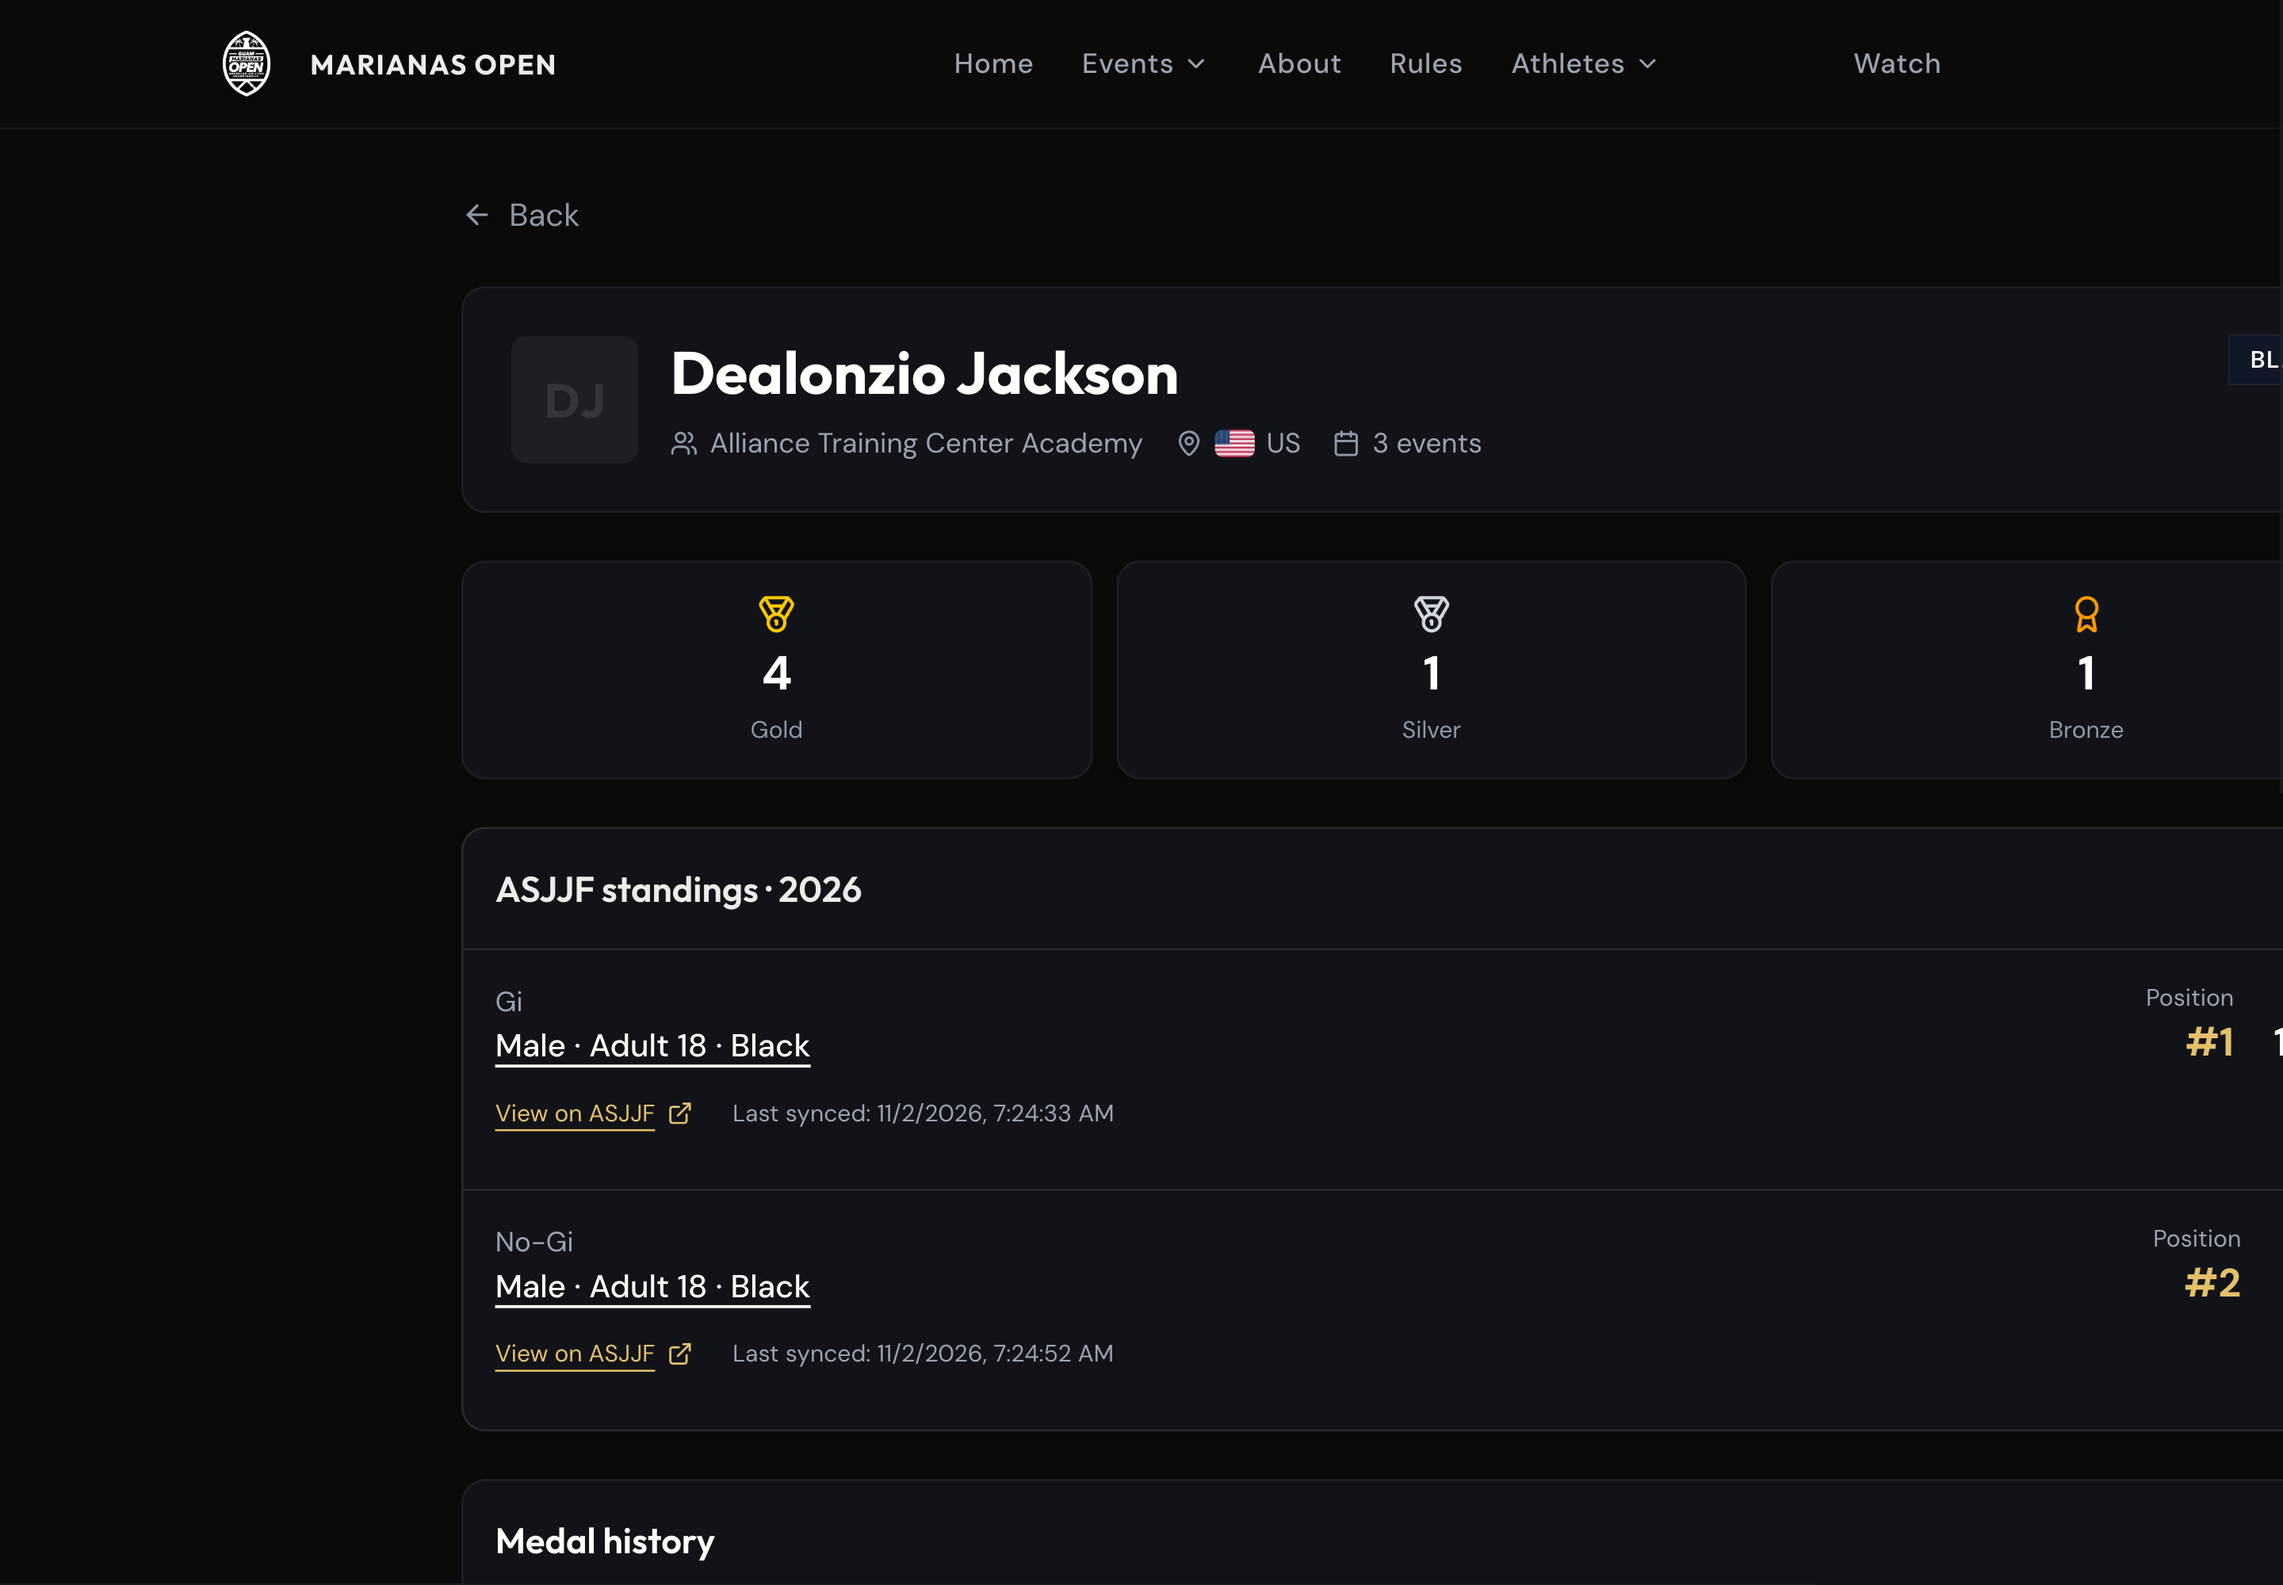
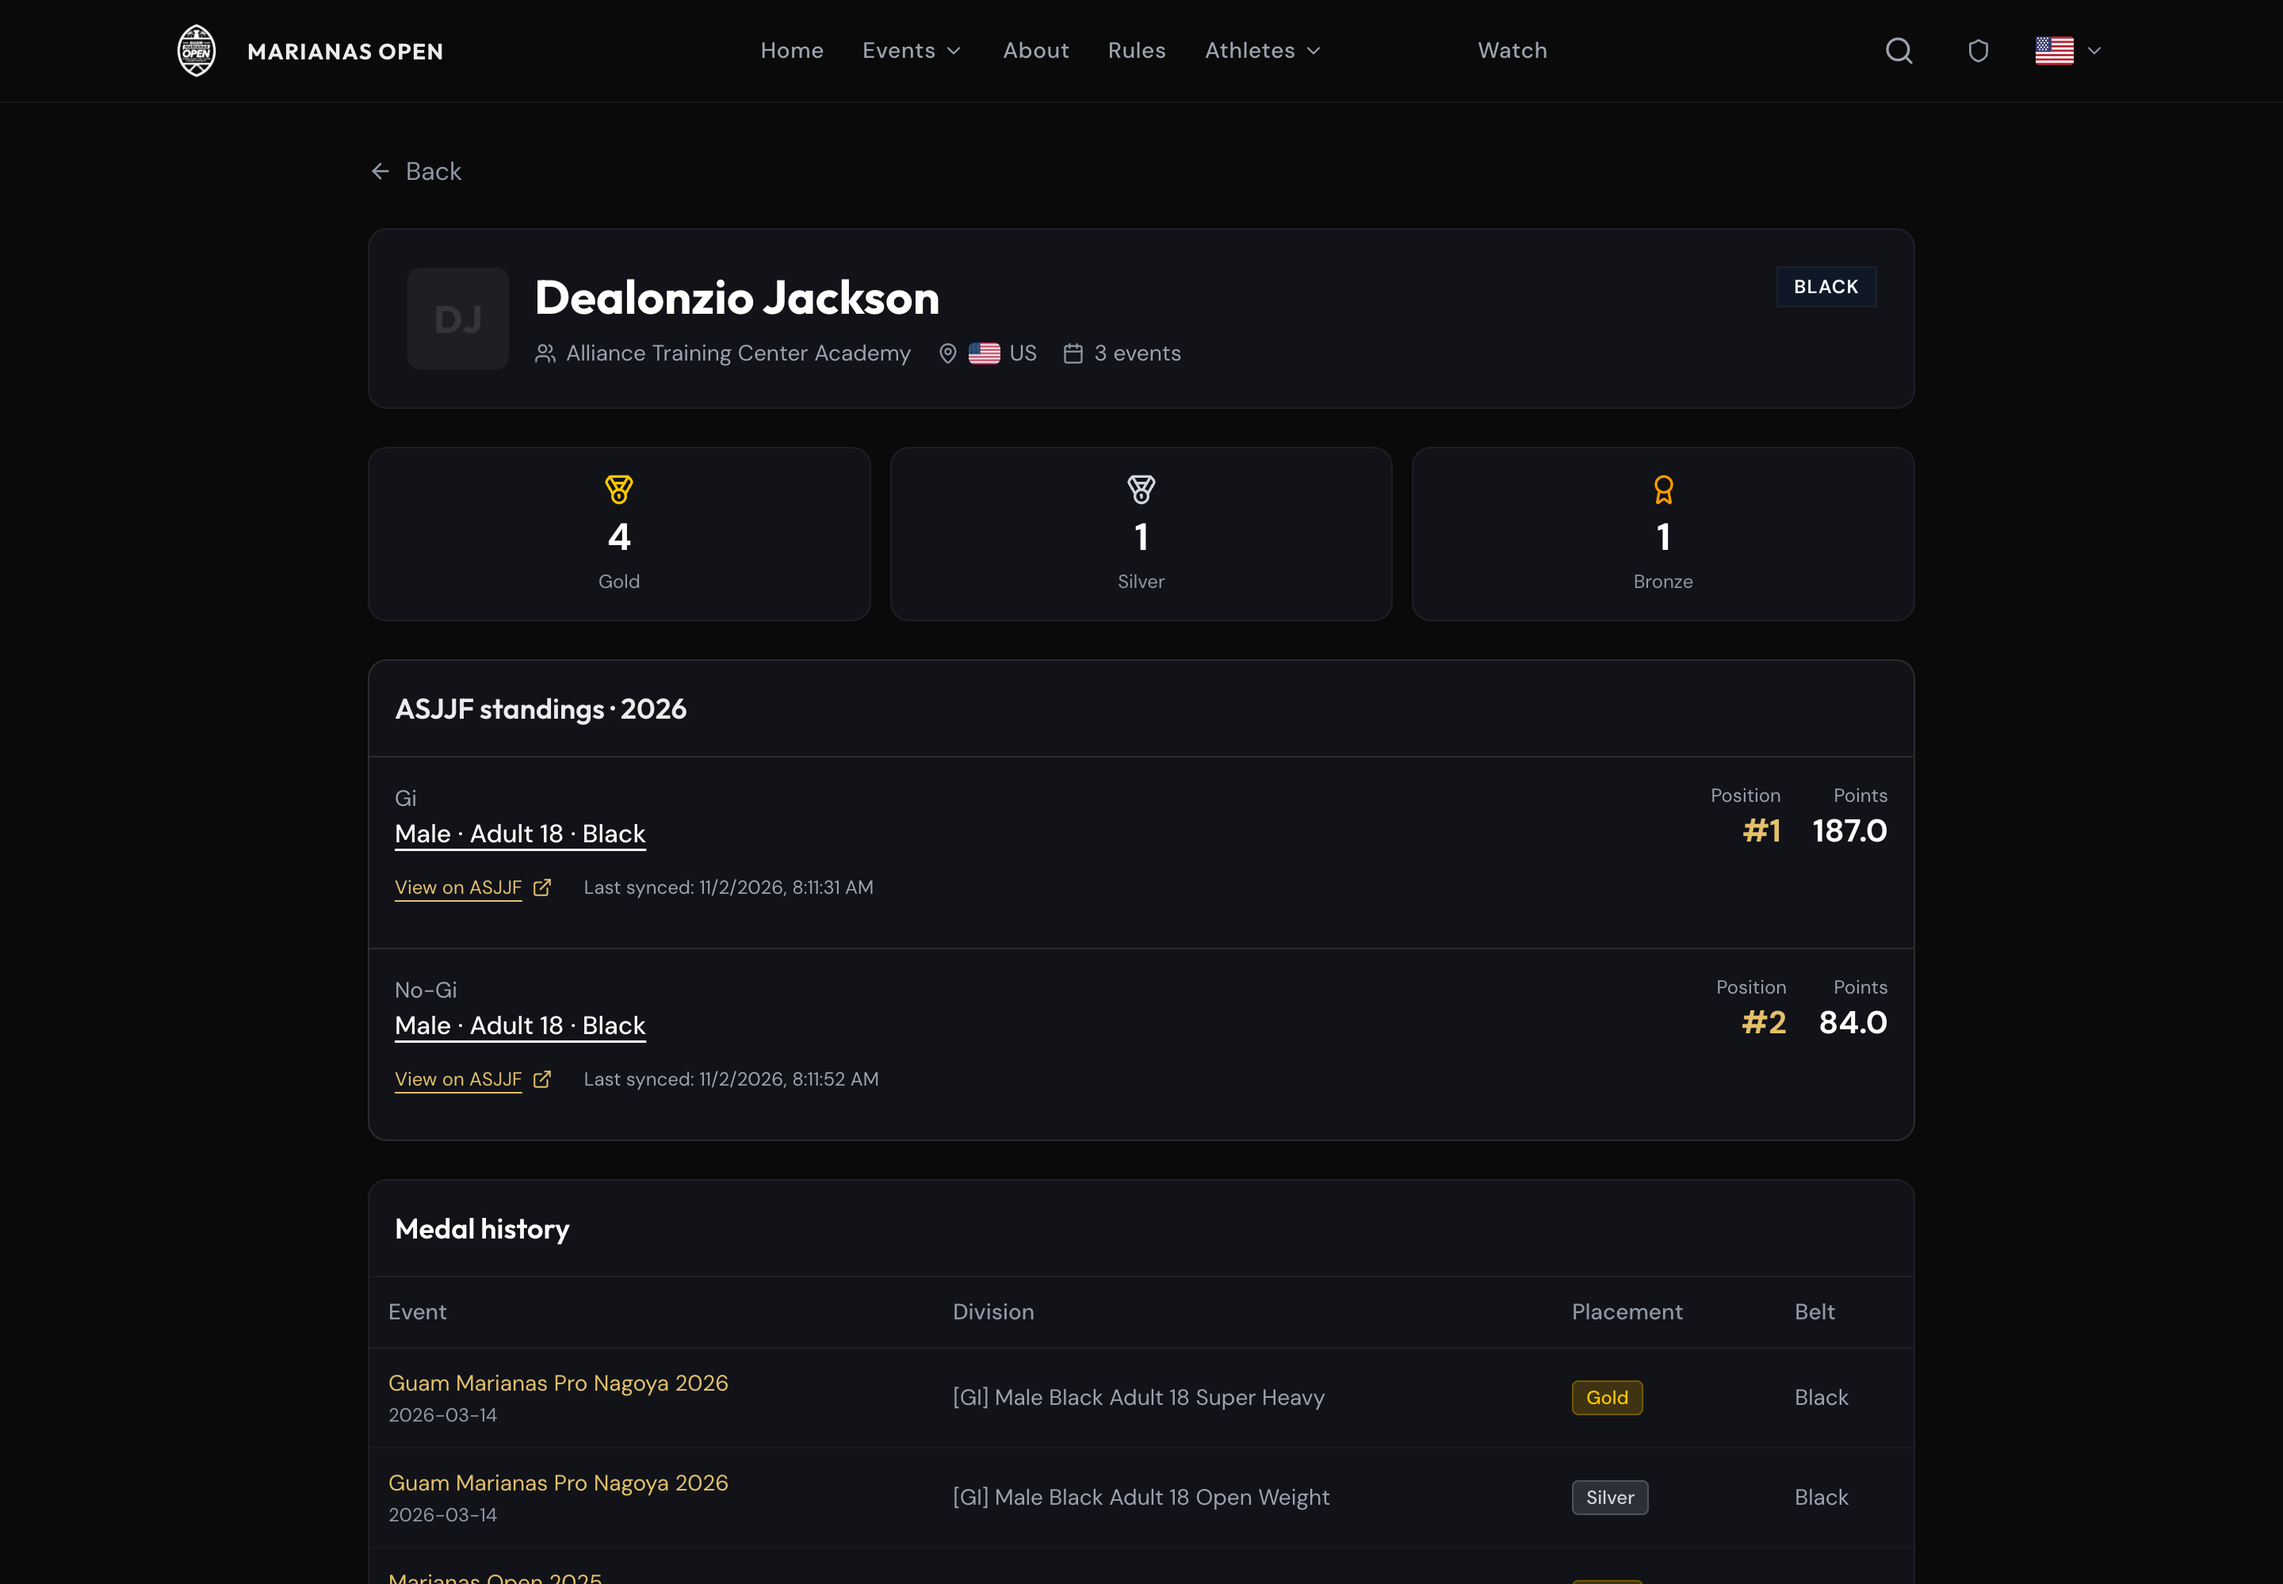
Record integrated rankings acceptance and refreshed profile evidence

diff --git a/docs/qa/official-rankings-b5.md b/docs/qa/official-rankings-b5.md
@@ -23,7 +23,7 @@ Automated checks: Rails 299 runs / 5,063 assertions / zero failures or errors / 
 
 Runtime passed: default and White division facts; URL-preserved selection, page 2 of 158 entries, linked profile with official Gi/No-Gi standings and medal history, and return-to-division link. Teams show Biba #1 / 5,351 with a matched academy destination; kids stay hidden without published data. Unavailable No-Gi teams show an explanatory message, and returning to Gi restores populated standings. EN/JA individual and team cards/tables and the profile were rendered at CSS widths 390 and 1440 without horizontal overflow. Screenshots below use Chrome device emulation at DPR 2. T3 preview snapshot failed twice (15-second timeout), followed by intermittent Chrome extension dispatch failures; native Chrome controls supplied final captures.
 
-Coverage limits: this is browser-width QA, not physical-phone testing. Full gender/age keyboard interaction, loading/error retry and authenticated admin save/review journeys were covered by API/component tests, not a complete live operator walkthrough; local Clerk authentication was not configured. No production rollout or historical login-gated source was exercised.
+Coverage limits: this is browser-width QA, not physical-phone testing. Loading/error retry and authenticated admin save/review journeys were covered by API/component tests, not a complete live operator walkthrough; local Clerk authentication was not configured. No production rollout or historical login-gated source was exercised.
 
 | View | 390px | 1440px |
 | --- | --- | --- |
@@ -34,3 +34,11 @@ Coverage limits: this is browser-width QA, not physical-phone testing. Full gend
 | Profile EN | [Screenshot](rankings-b5/profile-en-390.png) | [Screenshot](rankings-b5/profile-en-1440.png) |
 
 Review: independent backend, combined and guard-focused static rounds found incomplete row reductions, identity-merge association loss, schema pollution, misleading apply status, removed division inventory and inaccessible older holds. These were fixed. The last guard review identified last-page pagination shrinking; Previous now remains available and a regression proves the 26-to-25 hold case. CodeRabbit reported an OSS review rate limit and has not supplied a completed review. CI and final cleanup are reported with the PR handoff.
+
+Integration recheck: concurrent PRs #119 and #120 advanced `main` to `24f823e`. Merge `95523ee` preserves their public pages and results implementation unchanged. Both parse dispatch paths, results evidence locks, recurring jobs, schemas and all seven locale namespaces were reconciled. A bounded independent review found no material issue in that merge. Commits `c688eab` and `e6f0552` add failed-parse dispatch coverage and a staged wait for the profile's two asynchronous requests; no runtime code changed after the reviewed merge.
+
+Combined web gate: 192 tests / 35 files, lint, typecheck and build passed. The first run exceeded a one-second nested-profile wait under local load; the test now waits for the profile and standings separately. Standalone parser contract: 12 tests / 2,383 assertions, no failures/errors/skips. RuboCop inspected 303 files without offenses; Brakeman and bundler-audit remained clean. The production dependency audit reports one low and one moderate advisory, with no high/critical findings.
+
+Combined Rails run: 336 tests / 5,290 assertions, zero failures, one error and one expected skip. The error was a five-second timeout obtaining the second database connection in main's B3 evidence-lock test. Its isolated rerun passed both tests / seven assertions with no failures/errors/skips. No B3 implementation or test was changed. This is a local full-suite caveat; the complete run was not clean. Final CI status is reported in the PR handoff.
+
+Combined runtime recheck at `e6f0552`: reseeded a fresh owned QA copy; verified phone White Adult rows, gender-dependent defaults, keyboard age selection, Gi/No-Gi switching, pending division feedback, team unavailable/recovery controls, Biba's matched academy navigation, and profile Gi #1 / 187 and No-Gi #2 / 84. Source return links retain the season/division query. Replaced the desktop profile capture after its viewport settled. Both QA browser windows and API/Vite processes were closed; the QA copy was dropped. Final test DB cleanup is recorded in the handoff.
